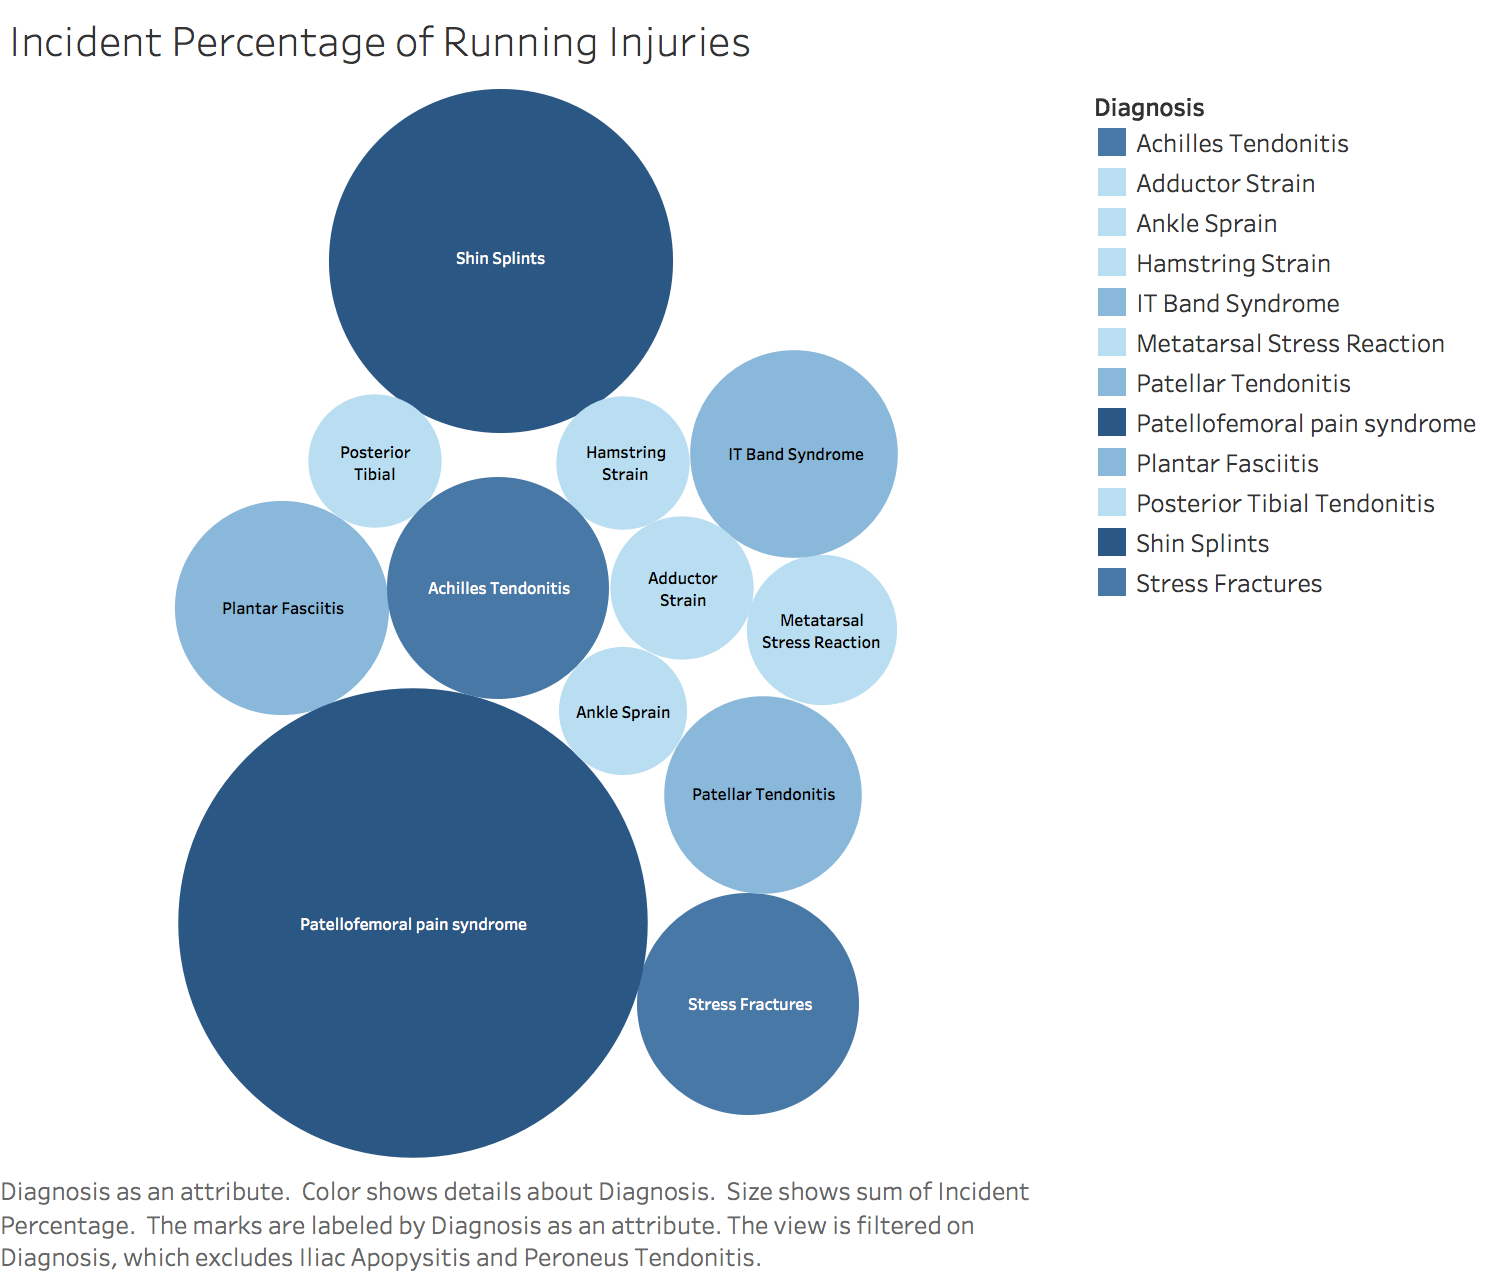
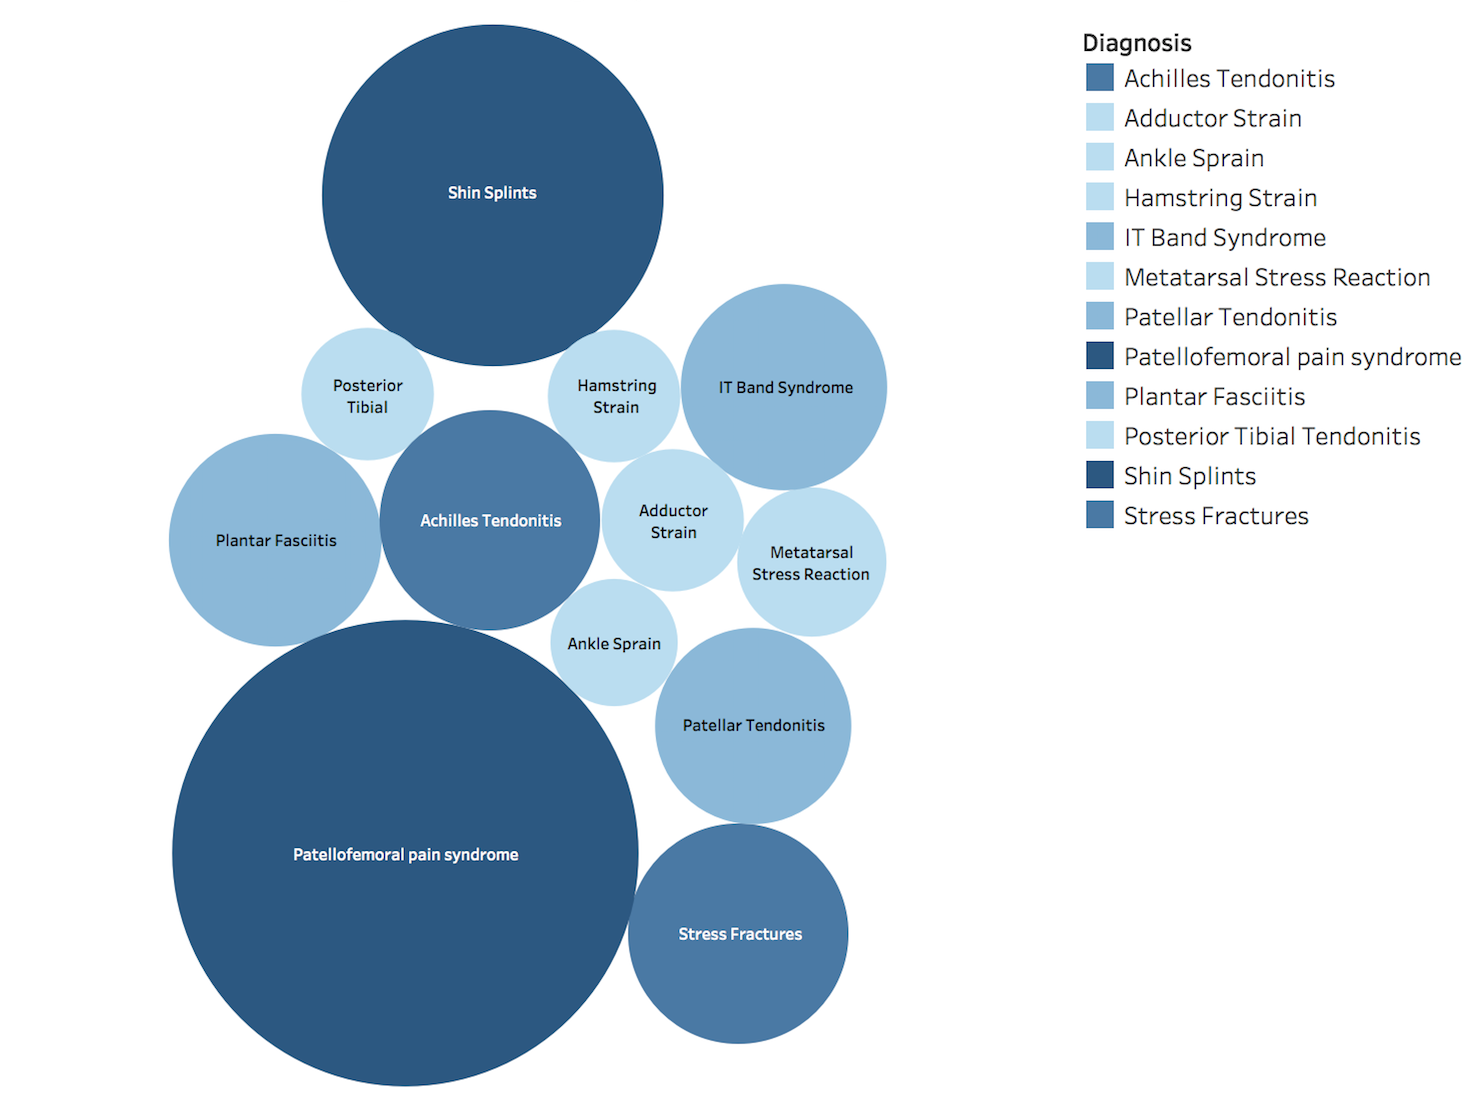
jen slide updates

diff --git a/TheShow/index.html b/TheShow/index.html
@@ -73,7 +73,7 @@
 			<div id="slide-6" class="step slide" data-x="9000" data-y="0" data-z="0" data-scale="1">
 				<div><h3 style="text-align:left;">Risk of Running Injury vs Other Sports</h3></div>
 				<div><img src="slides/slide_1.png" align="left" height="65%" >
-				<p style="margin-left:18em;" float="right"><br><br>This table shows the likelihood of injury associated with various sports. <br><br>
+				<p style="margin-left:22em;" float="right"><br><br>This table shows the likelihood of injury associated with various sports. <br><br>
 				Red indicates a higher injury rate while blue indicates a lower injury rate. <br><br>
 				Perhaps unsurprisingly, football has the highest rate of injury, however, running also ranks above average.</p>
 				</div>		
@@ -90,7 +90,7 @@
 			<div id="slide-8" class="step slide" data-x="12000" data-y="0" data-z="0" data-scale="1">
 				<div>
 				<h3 style="text-align:left;">Incident Rate of Running Injuries</h3>
-				<img src="slides/slide_4_mod.png" height="55%" ></div>
+				<img src="slides/slide_4.png" height="55%" ></div>
 				<p style="margin-left:0; font-size:1.3em;">The most common running injuries are patellofemoral pain syndrome (pain in the front of the knee) and shin splints.<br><br>
 				Ankle sprains and hamstring strains have the lowest incidence of injury in runners</p>
 			</div>
